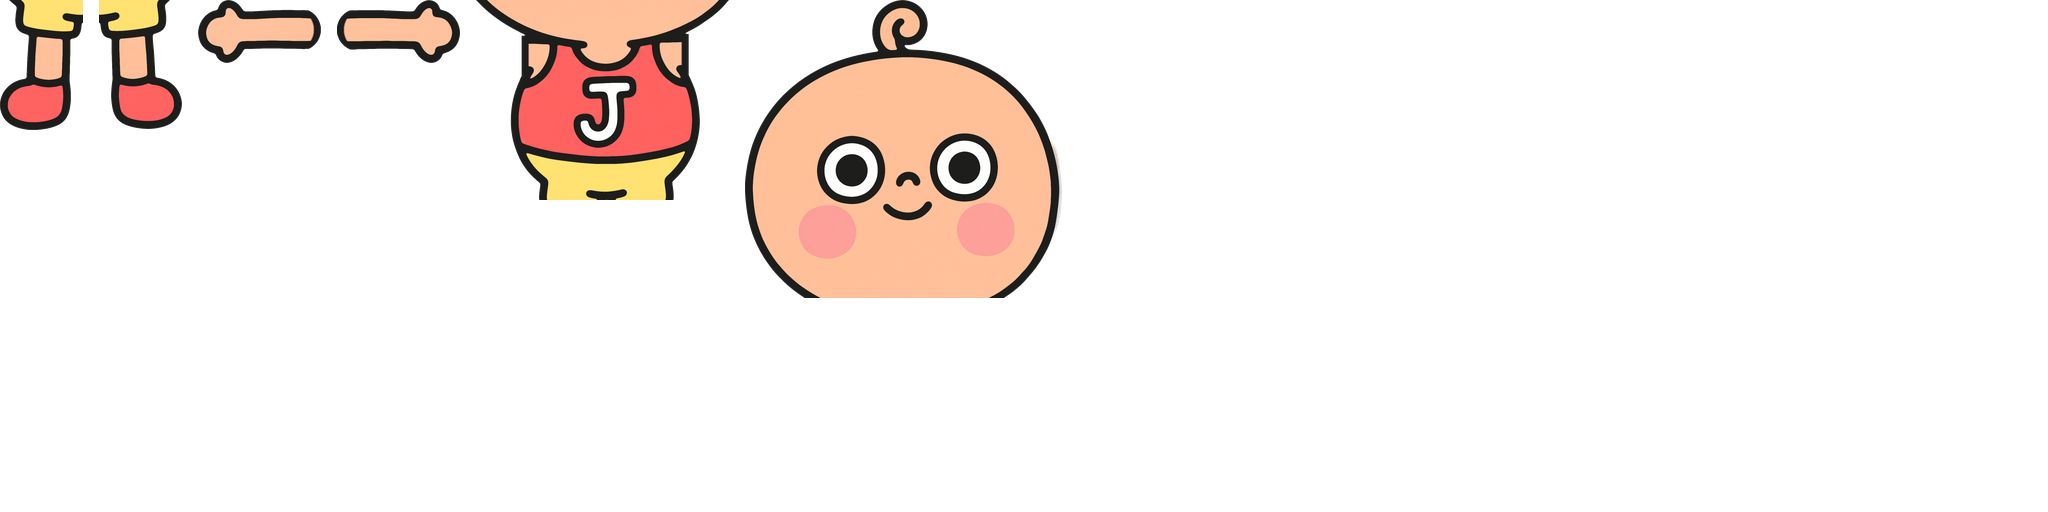
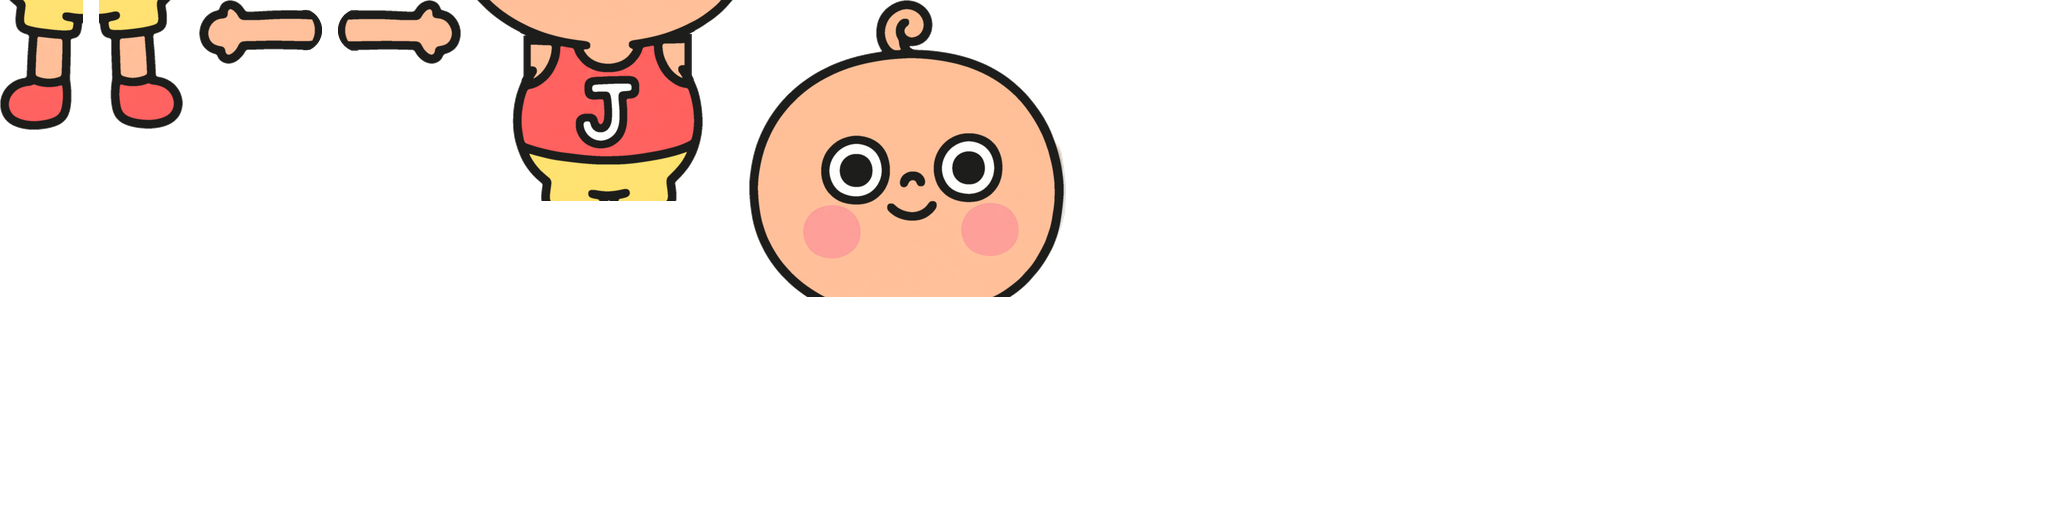
Trait égal pour tous les élèves, coudes et cahier pour Mme Josiane
Claude-Session: https://claude.ai/code/session_01QntoMRjXxVXi5B5W6y5Tw1

diff --git a/src/game/skins/cartoon/rig.ts b/src/game/skins/cartoon/rig.ts
@@ -67,21 +67,21 @@ export const RIGS: Record<string, Rig> = {
       jambeD: { cadre: [155, 0, 134, 350], pivot: [36.1, 15.7], pos: [36.1, -334.1] },
       brasG: { cadre: [305, 0, 246, 78], pivot: [215.1, 28.5], pos: [-79.2, -558.3] },
       brasD: { cadre: [567, 0, 245, 78], pivot: [30.2, 28.5], pos: [73.4, -558.3] },
-      tronc: { cadre: [828, 0, 147, 316], pivot: [72.8, 316.1], pos: [-2.7, -323.7] },
-      tete: { cadre: [991, 0, 307, 275], pivot: [170.7, 275.4], pos: [-2.7, -604.6] },
+      tronc: { cadre: [828, 0, 147, 316], pivot: [72.8, 315.7], pos: [-2.7, -323.7] },
+      tete: { cadre: [991, 0, 307, 276], pivot: [170.7, 275.8], pos: [-2.7, -604.2] },
     },
   },
   'bleu-petit': {
     hauteur: 581,
-    bras: 38.2,
-    main: [-101.7, 3.2],
+    bras: 39.8,
+    main: [-101.0, 3.2],
     pieces: {
-      jambeG: { cadre: [0, 0, 83, 130], pivot: [48.5, 13.8], pos: [-34.2, -116.2] },
-      jambeD: { cadre: [99, 0, 83, 129], pivot: [33.8, 13.8], pos: [33.9, -116.2] },
-      brasG: { cadre: [198, 0, 123, 63], pivot: [101.7, 29.6], pos: [-94.7, -251.6] },
-      brasD: { cadre: [337, 0, 123, 63], pivot: [21.1, 29.8], pos: [91.7, -253.3] },
-      tronc: { cadre: [476, 0, 253, 199], pivot: [127.0, 199.4], pos: [-3.6, -106.9] },
-      tete: { cadre: [745, 0, 317, 297], pivot: [159.0, 297.5], pos: [-3.6, -283.3] },
+      jambeG: { cadre: [0, 0, 83, 130], pivot: [49.1, 14.1], pos: [-34.0, -115.8] },
+      jambeD: { cadre: [99, 0, 83, 129], pivot: [33.9, 14.1], pos: [33.9, -115.8] },
+      brasG: { cadre: [198, 0, 123, 64], pivot: [101.0, 30.2], pos: [-95.5, -251.7] },
+      brasD: { cadre: [337, 0, 122, 64], pivot: [21.7, 30.4], pos: [92.6, -253.4] },
+      tronc: { cadre: [475, 0, 256, 201], pivot: [128.4, 200.6], pos: [-3.5, -106.4] },
+      tete: { cadre: [747, 0, 317, 297], pivot: [159.3, 296.8], pos: [-3.5, -284.0] },
     },
   },
   'bleu-populaire': {
@@ -165,27 +165,27 @@ export const RIGS: Record<string, Rig> = {
   'rouge-grand': {
     hauteur: 880,
     bras: 55.2,
-    main: [-215.1, 7.4],
+    main: [-215.1, 7.3],
     pieces: {
       jambeG: { cadre: [0, 0, 140, 350], pivot: [101.2, 15.7], pos: [-38.3, -333.8] },
       jambeD: { cadre: [156, 0, 134, 350], pivot: [36.2, 15.7], pos: [36.2, -333.8] },
       brasG: { cadre: [306, 0, 246, 78], pivot: [215.1, 28.9], pos: [-79.2, -557.9] },
       brasD: { cadre: [568, 0, 246, 78], pivot: [30.2, 28.9], pos: [73.4, -557.9] },
-      tronc: { cadre: [830, 0, 147, 315], pivot: [72.8, 315.0], pos: [-2.7, -323.4] },
-      tete: { cadre: [993, 0, 308, 276], pivot: [171.3, 276.5], pos: [-2.7, -603.5] },
+      tronc: { cadre: [830, 0, 147, 315], pivot: [72.8, 315.4], pos: [-2.7, -323.4] },
+      tete: { cadre: [993, 0, 308, 276], pivot: [171.3, 276.1], pos: [-2.7, -603.9] },
     },
   },
   'rouge-petit': {
     hauteur: 581,
-    bras: 38.5,
-    main: [-102.1, 3.2],
+    bras: 39.9,
+    main: [-101.4, 3.2],
     pieces: {
-      jambeG: { cadre: [0, 0, 83, 130], pivot: [48.6, 13.9], pos: [-34.2, -116.1] },
-      jambeD: { cadre: [99, 0, 83, 129], pivot: [33.9, 13.9], pos: [33.9, -116.1] },
-      brasG: { cadre: [198, 0, 123, 63], pivot: [102.1, 29.6], pos: [-94.8, -251.5] },
-      brasD: { cadre: [337, 0, 123, 63], pivot: [20.9, 29.7], pos: [91.9, -253.3] },
-      tronc: { cadre: [476, 0, 253, 200], pivot: [127.3, 199.5], pos: [-3.4, -106.9] },
-      tete: { cadre: [745, 0, 317, 298], pivot: [159.3, 297.5], pos: [-3.4, -283.3] },
+      jambeG: { cadre: [0, 0, 83, 130], pivot: [49.2, 14.1], pos: [-34.1, -115.8] },
+      jambeD: { cadre: [99, 0, 84, 129], pivot: [34.0, 14.1], pos: [34.0, -115.8] },
+      brasG: { cadre: [199, 0, 123, 64], pivot: [101.4, 30.3], pos: [-95.7, -251.6] },
+      brasD: { cadre: [338, 0, 123, 64], pivot: [21.7, 30.4], pos: [92.8, -253.4] },
+      tronc: { cadre: [477, 0, 256, 201], pivot: [128.6, 200.7], pos: [-3.5, -106.4] },
+      tete: { cadre: [749, 0, 317, 297], pivot: [159.5, 296.8], pos: [-3.5, -284.0] },
     },
   },
   'rouge-populaire': {
@@ -216,17 +216,22 @@ export const RIGS: Record<string, Rig> = {
   },
 };
 
-/** Mme Josiane, la surveillante (texture `public/skins/dodu/josiane.png`). */
+/** Mme Josiane, la surveillante (texture `public/skins/dodu/josiane.png`), avec coudes et cahier. */
 export const RIG_JOSIANE: Rig = {
   hauteur: 770,
-  bras: 62.8,
-  main: [-141.1, 14.3],
+  bras: 62.4,
+  main: [-141.5, 14.5],
   pieces: {
     jambeG: { cadre: [0, 0, 91, 140], pivot: [28.1, 9.1], pos: [-46.2, -130.6] },
     jambeD: { cadre: [107, 0, 95, 135], pivot: [29.4, 9.1], pos: [46.5, -130.6] },
-    brasG: { cadre: [218, 0, 176, 82], pivot: [141.1, 35.7], pos: [-118.9, -490.5] },
-    brasD: { cadre: [410, 0, 176, 82], pivot: [34.4, 35.7], pos: [119.9, -490.5] },
-    tronc: { cadre: [602, 0, 241, 436], pivot: [120.3, 436.4], pos: [0.3, -124.6] },
-    tete: { cadre: [859, 0, 177, 295], pivot: [83.5, 239.6], pos: [0.3, -530.4] },
+    brasG: { cadre: [218, 0, 105, 76], pivot: [70.5, 35.5], pos: [-118.5, -490.7] },
+    brasD: { cadre: [339, 0, 105, 76], pivot: [34.3, 35.5], pos: [119.5, -490.7] },
+    tronc: { cadre: [460, 0, 241, 436], pivot: [120.3, 436.4], pos: [0.3, -124.6] },
+    tete: { cadre: [717, 0, 177, 295], pivot: [83.5, 239.6], pos: [0.3, -530.4] },
+  },
+  extras: {
+    avantBrasG: { cadre: [910, 0, 104, 68], pivot: [70.7, 31.9], pos: [-189.2, -480.5] },
+    avantBrasD: { cadre: [1030, 0, 104, 68], pivot: [33.1, 31.9], pos: [190.2, -480.5] },
+    cahier: { cadre: [1150, 0, 142, 146], pivot: [71.6, 68.4], pos: [0.0, -385.8] },
   },
 };

diff --git a/src/game/ui/marionnette.ts b/src/game/ui/marionnette.ts
@@ -25,7 +25,17 @@ export interface Rig {
   /** Bout de la main gauche (à l'écran), depuis l'épaule gauche, bras tendu (pixels de texture). */
   main: [number, number];
   pieces: Record<NomPiece, PieceRig>;
+  /**
+   * Pièces en plus, pour qui en a : avant-bras (le bras a alors un coude, l'avant-bras plié devant
+   * le corps) et objet tenu contre la poitrine.
+   */
+  extras?: Partial<Record<NomExtra, PieceRig>>;
 }
+
+export type NomExtra = 'avantBrasG' | 'avantBrasD' | 'cahier';
+
+/** Avant-bras repliés devant le corps (radians, par rapport au bras), pour qui a des coudes. */
+const COUDE = 1.64;
 
 /** Ordre d'affichage : jambes et bras derrière le tronc, la tête devant. */
 const ORDRE: NomPiece[] = ['jambeG', 'jambeD', 'brasG', 'brasD', 'tronc', 'tete'];
@@ -80,9 +90,13 @@ const sansCle = (cle: string, nom: NomPiece) => `${cle}#${nom}`;
 /** Crée (une fois) les cadres des pièces dans la texture de l'élève. */
 function cadres(scene: Phaser.Scene, cle: string, rig: Rig): void {
   const texture = scene.textures.get(cle);
-  for (const nom of ORDRE) {
-    const [x, y, l, h] = rig.pieces[nom].cadre;
-    if (!texture.has(sansCle(cle, nom))) texture.add(sansCle(cle, nom), 0, x, y, l, h);
+  const toutes: [string, PieceRig][] = [
+    ...ORDRE.map((n): [string, PieceRig] => [n, rig.pieces[n]]),
+    ...Object.entries(rig.extras ?? {}),
+  ];
+  for (const [nom, p] of toutes) {
+    const [x, y, l, h] = p.cadre;
+    if (!texture.has(`${cle}#${nom}`)) texture.add(`${cle}#${nom}`, 0, x, y, l, h);
   }
 }
 
@@ -92,6 +106,8 @@ export class Marionnette {
   /** Haut du corps et jambes, tournant autour des hanches. */
   readonly corps: Phaser.GameObjects.Container;
   readonly pieces: Record<NomPiece, Phaser.GameObjects.Image>;
+  /** Avant-bras et objet tenu, s'il y en a. */
+  readonly extras: Partial<Record<NomExtra, Phaser.GameObjects.Image>> = {};
   private readonly hanches: [number, number];
   /** Angle du bras au repos, pour chaque côté (radians). */
   readonly reposBras = { brasG: -(Math.PI / 2 - ECART), brasD: Math.PI / 2 - ECART };
@@ -113,11 +129,20 @@ export class Marionnette {
         .setOrigin(p.pivot[0] / p.cadre[2], p.pivot[1] / p.cadre[3]);
     }
     this.pieces = images;
-    this.corps = scene.add.container(
-      hx,
-      hy,
-      ORDRE.map((n) => images[n]),
-    );
+    const devant: Phaser.GameObjects.Image[] = [];
+    for (const nom of ['cahier', 'avantBrasG', 'avantBrasD'] as const) {
+      const p = rig.extras?.[nom];
+      if (!p) continue;
+      const img = scene.add
+        .image(p.pos[0] - hx, p.pos[1] - hy, cle, `${cle}#${nom}`)
+        .setOrigin(p.pivot[0] / p.cadre[2], p.pivot[1] / p.cadre[3]);
+      this.extras[nom] = img;
+      devant.push(img);
+    }
+    // Avant-bras et objet devant le tronc, sous la tête.
+    const ordre = ORDRE.map((n) => images[n]);
+    ordre.splice(ordre.indexOf(images.tete), 0, ...devant);
+    this.corps = scene.add.container(hx, hy, ordre);
     this.racine = scene.add.container(0, 0, [this.corps]).setScale(echelle);
     this.poser(poseRepos());
   }
@@ -143,10 +168,30 @@ export class Marionnette {
       this.pieces[nom]
         .setPosition(bx - hx, by - hy + p.rebond * h * 0.8)
         .setRotation(this.reposBras[nom] + p[nom]);
+      this.plierCoude(nom);
     }
+    const cahier = this.extras.cahier;
+    const pc = this.rig.extras?.cahier;
+    if (cahier && pc) cahier.setY(pc.pos[1] - hy + p.rebond * h * 0.8);
     // Les jambes restent au sol quand le haut du corps penche : elles compensent la bascule.
     this.pieces.jambeG.setRotation(p.jambeG - p.tronc * (p.saut < 0 ? 0 : 1));
     this.pieces.jambeD.setRotation(p.jambeD - p.tronc * (p.saut < 0 ? 0 : 1));
+  }
+
+  /** Place l'avant-bras au bout du bras (s'il y en a un), replié devant le corps. */
+  plierCoude(nom: 'brasG' | 'brasD'): void {
+    const cleA = nom === 'brasG' ? 'avantBrasG' : 'avantBrasD';
+    const av = this.extras[cleA];
+    const pa = this.rig.extras?.[cleA];
+    if (!av || !pa) return;
+    const bras = this.pieces[nom];
+    const pb = this.rig.pieces[nom].pos;
+    const ex = pa.pos[0] - pb[0];
+    const ey = pa.pos[1] - pb[1];
+    const c = Math.cos(bras.rotation);
+    const sn = Math.sin(bras.rotation);
+    av.setPosition(bras.x + ex * c - ey * sn, bras.y + ex * sn + ey * c);
+    av.setRotation(bras.rotation + (nom === 'brasG' ? -COUDE : COUDE));
   }
 
   /** Oriente une pièce (dans le repère du corps) pour que son bout vise une direction du monde. */

diff --git a/docs/decisions.md b/docs/decisions.md
@@ -94,6 +94,7 @@ Le prompt de Clément fait foi ; le document de conception sert de complément.
 - **DG.15 — Élèves « dodus » en marionnettes articulées (validés par Clément ; « des idles sans déformations, en lien avec la personnalité »).** Les 16 élèves sont redessinés en T-pose dans le style dodu, trait uniforme épaissi ×2 (`docs` : guide de création des personnages). Chacun est découpé en 6 pièces rigides (deux jambes, deux bras avec une rotule encrée à l'épaule, tronc, tête) rangées dans une seule texture (`public/skins/dodu/<bande>-<rôle>.png`) ; leurs attaches sont dans `skins/cartoon/rig.ts`. La marionnette (`ui/marionnette.ts`) ne déforme plus l'image : elle tourne et déplace les pièces. Les idles par caractère (DG.10) sont refaits ainsi : le Grand bâille bras levés, le Petit sautille, la Populaire danse, le Chouchou lève le bras, la Rapporteuse cafarde et tape du pied, le Contagieux frissonne et éternue, le Délégué hoche la tête et bombe le torse, la Fouine regarde derrière elle. Dans le rang et les pastilles, seul le buste est visible (masque) et bouge plus doucement ; quand on l'attrape, l'élève entier pend par la main gauche, le corps penché pour que le bras tenu passe devant la tête, et retombe dans sa pastille quand on le lâche. Mme Josiane garde la gelée (DG.14). Les anciennes images (`public/skins/dessin/`, `mesures.ts`) sont supprimées.
 - **DG.16 — Bras par-dessus la pastille (demande de Clément).** Sur la cour, seuls la tête, le tronc et les jambes sont coupés par la pastille ; les bras passent par-dessus son bord, on voit mieux les gestes. La découpe suit la forme de la bande : ronde pour les rouges, carrée arrondie pour les bleus (avant, le buste était coupé en rond même dans une pastille carrée).
 - **DG.17 — Mme Josiane en marionnette (demande de Clément).** Elle est régénérée en T-pose dans le style dodu (une seule version, 2 crédits). L'image sortie avait un troisième bras qui tenait le bloc-notes : il est effacé et le buste refait par symétrie. Elle est découpée comme les élèves (`public/skins/dodu/josiane.png`, `RIG_JOSIANE`) ; pour elle qui n'a pas de cou, la tête emporte le menton et un cou couleur peau est peint dessous. Son idle reste celui de la surveillante (tape du pied, hoche la tête, regarde autour). L'ancienne animation « gelée » n'a plus d'utilisateur : `ui/gelee.ts` et l'ancienne image sont supprimés.
+- **DG.18 — Même trait pour tous, coudes pour Josiane (retours de Clément).** Le trait est ramené à la même épaisseur dans toutes les textures (8,6 pixels) : le Grand, qui paraissait plus épais, est affiné d'un pixel de chaque côté sur l'original, le Petit épaissi de deux. Mme Josiane a des coudes : chaque bras a un avant-bras à part (`extras` du rig), replié devant elle, et elle serre contre sa poitrine un cahier (une planchette dessinée au même trait).
 
 ## Phase 1 de la v1 — Le feedback (audit du 26/11)
 
